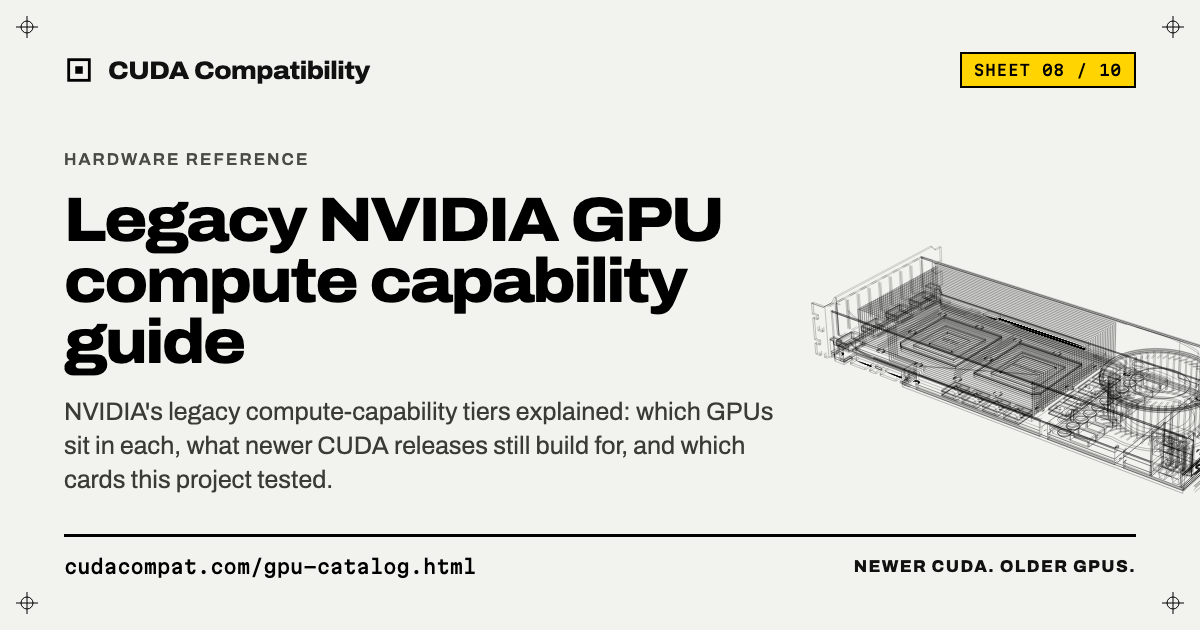
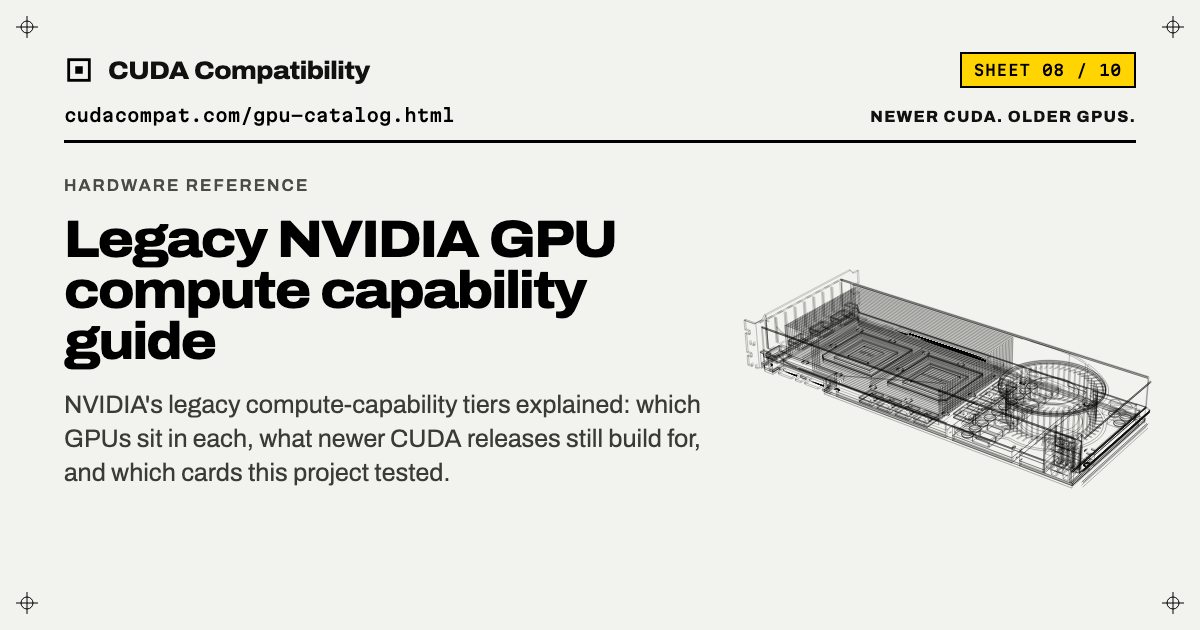
Keep share cards clear of X's title overlay and fit the GM200 drawing inside the frame

Changed region(s): [[0.0308, 0.1508, 0.9558, 0.7841], [0.6167, 0.3921, 1.0, 0.7841], [0.0617, 0.8444, 0.9558, 0.9349]]

diff --git a/scripts/build_social_cards.py b/scripts/build_social_cards.py
@@ -26,7 +26,7 @@ REGISTRY = ROOT / "content" / "pages.json"
 
 # The settled wireframe, drawn like site.js: same projection, depth-banded ink, no fan spin, no labels.
 WIREFRAME_JS = """
-async function wireframe(canvas, ox, oy, scale, alpha) {
+async function wireframe(canvas, ox, oy, scale, alpha, box) {
   const d = await (await fetch(WIRE)).json();
   const { q, n, e } = d, ctx = canvas.getContext("2d"), w = canvas.width, h = canvas.height;
   const yaw = 0.62, pitch = -0.5, f = 3.2, k = scale, buckets = 7, P = new Float32Array(n * 6);
@@ -41,7 +41,19 @@ async function wireframe(canvas, ox, oy, scale, alpha) {
     rot(e[b + 3] / q, e[b + 4] / q, e[b + 5] / q, b + 3);
   }
   const paths = Array.from({ length: buckets }, () => new Path2D());
-  const X = (x, z) => w * ox + x * (k / (f + z)), Y = (y, z) => h * oy - y * (k / (f + z));
+  let kk = k, cx = w * ox, cy = h * oy;
+  if (box) {
+    // Fit the whole drawing inside box = [x0, y0, x1, y1], centred, so no part leaves the image.
+    let x0 = Infinity, x1 = -Infinity, y0 = Infinity, y1 = -Infinity;
+    for (let o = 0; o < n * 6; o += 3) {
+      const u = P[o] / (f + P[o + 2]), v = -P[o + 1] / (f + P[o + 2]);
+      x0 = Math.min(x0, u); x1 = Math.max(x1, u); y0 = Math.min(y0, v); y1 = Math.max(y1, v);
+    }
+    kk = Math.min((box[2] - box[0]) / (x1 - x0), (box[3] - box[1]) / (y1 - y0));
+    cx = (box[0] + box[2]) / 2 - kk * (x0 + x1) / 2;
+    cy = (box[1] + box[3]) / 2 - kk * (y0 + y1) / 2;
+  }
+  const X = (x, z) => cx + x * (kk / (f + z)), Y = (y, z) => cy - y * (kk / (f + z));
   for (let j = 0; j < n; j++) {
     const z = (P[j * 6 + 2] + P[j * 6 + 5]) * 0.5, depth = Math.max(0, Math.min(1, (z + 1.1) / 2.2));
     const p = paths[Math.min(buckets - 1, Math.floor((1 - depth) * buckets))];
@@ -73,20 +85,20 @@ canvas{position:absolute;inset:0}
 .top{position:absolute;left:64px;right:64px;top:52px;display:flex;justify-content:space-between;align-items:center}
 .brand{display:flex;align-items:center;gap:14px;font-weight:800;font-stretch:110%;font-size:25px;letter-spacing:-0.02em}
 .chip{background:#FFD400;color:#000;border:2px solid #000;padding:7px 12px;font:500 15px "Martian Mono",monospace;letter-spacing:0.06em}
-.body{position:absolute;left:64px;top:150px;width:720px;display:flex;flex-direction:column;gap:22px}
+.meta{position:absolute;left:64px;right:64px;top:104px;border-bottom:3px solid #000;padding-bottom:14px;display:flex;justify-content:space-between;align-items:baseline;gap:24px}
+.body{position:absolute;left:64px;top:176px;width:660px;display:flex;flex-direction:column;gap:20px}
 .eyebrow{font:600 17px "Archivo",sans-serif;letter-spacing:0.12em;text-transform:uppercase;color:#4A4A46}
 h1{font-weight:800;font-stretch:112%;letter-spacing:-0.035em;line-height:0.98;color:#000}
 h1 .ink{color:#1F3DFF}
-.sum{font-size:25px;line-height:1.36;color:#3A3A36;max-width:720px}
-.foot{position:absolute;left:64px;right:64px;bottom:52px;border-top:3px solid #000;padding-top:18px;display:flex;justify-content:space-between;align-items:center}
-.url{font:500 19px "Martian Mono",monospace;color:#000}
-.tag{font-weight:800;font-size:17px;letter-spacing:0.08em;text-transform:uppercase}
+.sum{font-size:25px;line-height:1.36;color:#3A3A36;max-width:660px}
+.url{font:500 18px "Martian Mono",monospace;color:#000;white-space:nowrap}
+.tag{font-weight:800;font-size:16px;letter-spacing:0.08em;text-transform:uppercase;white-space:nowrap}
 </style></head><body>
 <canvas id="c" width="1200" height="630"></canvas>
 MARKS
 <div class="top"><div class="brand"><svg width="30" height="30" viewBox="0 0 32 32" fill="none" stroke="#000" stroke-width="3"><rect x="5" y="5" width="22" height="22"/><rect x="12" y="12" width="8" height="8" fill="#000" stroke="none"/></svg>CUDA Compatibility</div><span class="chip">SHEET</span></div>
+<div class="meta"><span class="url" id="u">URL</span><span class="tag">TAG</span></div>
 <div class="body"><p class="eyebrow">EYEBROW</p><h1 id="t">TITLE</h1><p class="sum">SUMMARY</p></div>
-<div class="foot"><span class="url">URL</span><span class="tag">TAG</span></div>
 <script>
 const WIRE = "WIREURL";
 WIREFRAME_JS
@@ -94,13 +106,16 @@ const t = document.getElementById("t");
 document.fonts.ready.then(async () => {
   let size = 84;
   t.style.fontSize = size + "px";
-  // Shrink the title until the whole text block clears the footer rule (top at 575 - 18 px padding).
-  const body = document.querySelector(".body"), sum = document.querySelector(".sum");
-  const fits = () => t.getBoundingClientRect().height <= 250 && body.getBoundingClientRect().bottom <= 500;
+  // X lays the page title over the bottom-left of the image, so the text ends by y=490 and the
+  // bottom of the card carries nothing a reader needs. The URL sits under the brand row instead.
+  const body = document.querySelector(".body"), sum = document.querySelector(".sum"), u = document.getElementById("u");
+  let us = 18;
+  while (u.parentElement.scrollWidth > u.parentElement.clientWidth && us > 14) { us -= 1; u.style.fontSize = us + "px"; }
+  const fits = () => t.getBoundingClientRect().height <= 230 && body.getBoundingClientRect().bottom <= 490;
   while (!fits() && size > 44) { size -= 2; t.style.fontSize = size + "px"; }
   let small = 25;
   while (!fits() && small > 20) { small -= 1; sum.style.fontSize = small + "px"; }
-  await wireframe(document.getElementById("c"), 0.87, 0.56, 1450, 0.55);
+  await wireframe(document.getElementById("c"), 0, 0, 0, 0.6, [744, 176, 1152, 582]);
   document.title = "ready";
 });
 </script></body></html>"""

diff --git a/docs/SITE_PROTOCOL.md b/docs/SITE_PROTOCOL.md
@@ -79,7 +79,7 @@ Every canonical page meets all of these. **Check** is what enforces it: `make ch
 
 ### Share card
 
-A 1200×630 PNG per page, ink on paper. It shows the page's eyebrow, share title, excerpt, chip and URL, all taken from the registry; the title shrinks until the text clears the footer rule. `scripts/build_social_cards.py` renders every card, so **never edit a card by hand**: change the page, then run `make cards`. Rendering is deterministic, so cards for unchanged pages stay byte-identical.
+A 1200×630 PNG per page, ink on paper. It shows the page's eyebrow, share title, excerpt, chip and URL, all taken from the registry. The URL sits under the brand row and the text ends by y = 490, because X lays the page title over the bottom-left of the image; the GM200 drawing is fitted whole inside the right-hand box, never cropped by the edge; the title shrinks until the text clears the footer rule. `scripts/build_social_cards.py` renders every card, so **never edit a card by hand**: change the page, then run `make cards`. Rendering is deterministic, so cards for unchanged pages stay byte-identical.
 
 ## 4. Site files
 
@@ -160,7 +160,7 @@ After a change ships:
 These are known and not yet done. Close each one by doing it and recording evidence (§7).
 
 1. **Screen-reader session (6.7).** Not yet run. The accessibility tree and focus pass were checked, but announcements were never heard.
-2. **X card layout.** X lays the page title over the bottom-left of the share image, covering the card's URL line (checked 2026-11-03 with a real post). Facebook (Batch Invalidator: all 18 pages, no issues) and LinkedIn (all 18, no warnings) are done. Facebook's only note is the optional `fb:app_id`, which needs a Meta app.
+2. **X card layout.** Fixed 2026-11-04: X lays the page title over the bottom-left of the share image, so the cards now keep that area empty (URL under the brand row, drawing fitted whole). X caches card images by URL for about a week, so posts made before then may still show the old card. Facebook (Batch Invalidator: all 18 pages, no issues) and LinkedIn (all 18, no warnings) are done. Facebook's only note is the optional `fb:app_id`, which needs a Meta app.
 3. **Indexing requests.** Google's daily quota ran out after four of the eight papers (2026-11-03). Request indexing for `runtime-version-facade`, `implementation-gap-audit-2026-11`, `attribution-pilot` and `cuda-12-9-to-13-0-changes` in Search Console. The resubmitted sitemap already lists all 18 pages.
 4. **Full contrast re-measure.** The 1,943-node pass predates the dark-on-light change. Colours were judged per section since then.
 5. **The generator branch.** `feat/generated-site` holds an unpushed site generator from before CLC-035. Either port today's page contract into it or retire it. Until then, pages are edited by hand under this protocol.
